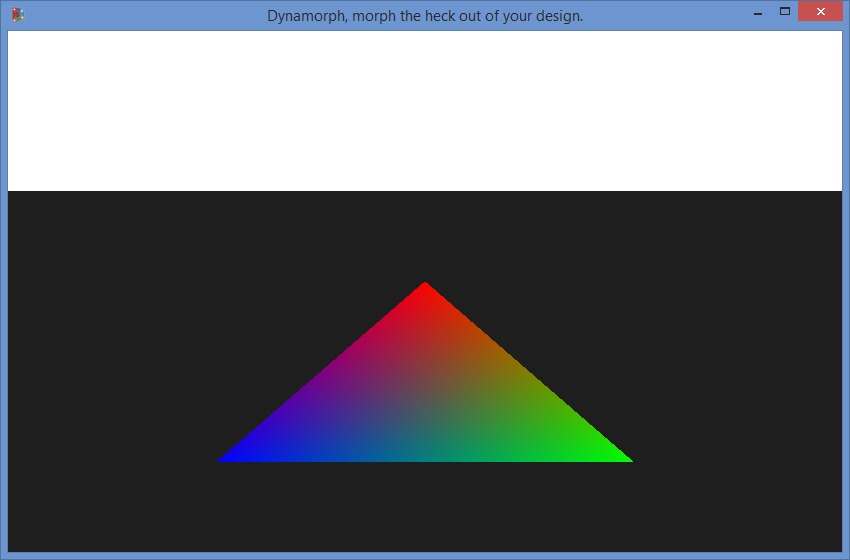
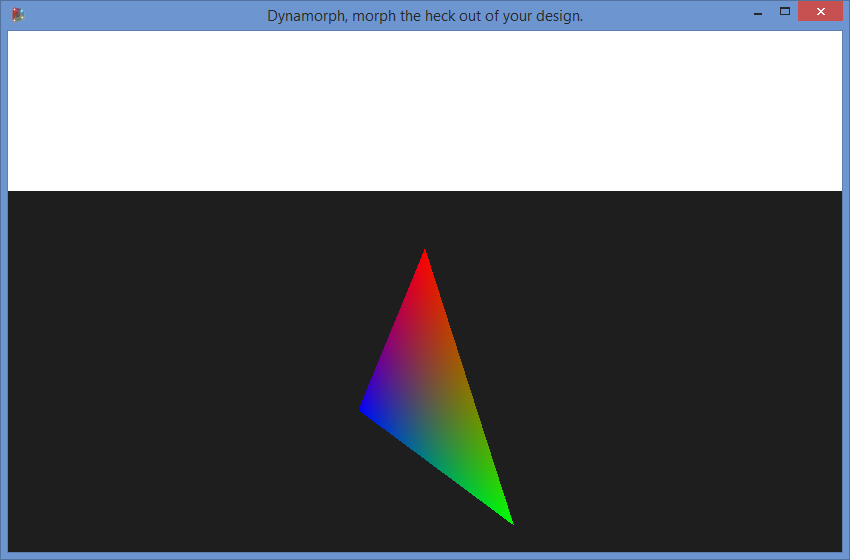
Added "CameraConfiguration" and a way to configure camera

Changed region(s): [[0.2447, 0.4554, 0.7341, 0.9411]]

diff --git a/src/Extensions/Dynamorph/Dynamorph.Cpp/Interfaces.h b/src/Extensions/Dynamorph/Dynamorph.Cpp/Interfaces.h
@@ -32,6 +32,54 @@ namespace Dynamorph
         virtual void MouseReleasedCore(int screenX, int screenY) = 0;
     };
 
+    struct CameraConfiguration
+    {
+        CameraConfiguration()
+        {
+            memset(this, 0, sizeof(CameraConfiguration));
+            eye[0] = eye[1] = eye[2] = 10.0f;
+            center[0] = center[1] = center[2] = 0.0f;
+            up[1] = 1.0f; // Default up-vector is Y-axis
+
+            fieldOfView = 45.0f;
+            aspectRatio = 3.0f / 2.0f;
+            nearClippingPlane = 1.0f;
+            farClippingPlane = 1000.0f;
+        }
+
+        void SetEyePoint(float x, float y, float z)
+        {
+            eye[0] = x;
+            eye[1] = y;
+            eye[2] = z;
+        }
+
+        void SetCenterPoint(float x, float y, float z)
+        {
+            center[0] = x;
+            center[1] = y;
+            center[2] = z;
+        }
+
+        void SetUpVector(float x, float y, float z)
+        {
+            up[0] = x;
+            up[1] = y;
+            up[2] = z;
+        }
+
+        // View matrix.
+        float eye[3];
+        float center[3];
+        float up[3];
+
+        // Projection matrix.
+        float fieldOfView;
+        float aspectRatio;
+        float nearClippingPlane;
+        float farClippingPlane;
+    };
+
     class ICamera
     {
     public:
@@ -39,9 +87,9 @@ namespace Dynamorph
         {
         }
 
-        void SetView(const float* pEye, const float* pCenter, const float* pUp)
+        void Configure(const CameraConfiguration* pConfiguration)
         {
-            this->SetViewCore(pEye, pCenter, pUp);
+            this->ConfigureCore(pConfiguration);
         }
 
         ITrackBall* GetTrackBall() const
@@ -50,7 +98,7 @@ namespace Dynamorph
         }
 
     protected:
-        virtual void SetViewCore(const float* pEye, const float* pCenter, const float* pUp) = 0;
+        virtual void ConfigureCore(const CameraConfiguration* pConfiguration) = 0;
         virtual ITrackBall* GetTrackBallCore() const = 0;
     };
 

diff --git a/src/Extensions/Dynamorph/Dynamorph.Cpp/OpenGL Files/Camera.cpp b/src/Extensions/Dynamorph/Dynamorph.Cpp/OpenGL Files/Camera.cpp
@@ -51,13 +51,30 @@ GraphicsContext* Camera::GetGraphicsContext(void) const
     return this->mpGraphicsContext;
 }
 
-void Camera::SetViewCore(const float* pEye, const float* pCenter, const float* pUp)
+void Camera::ConfigureCore(const CameraConfiguration* pConfiguration)
 {
-    glm::vec3 eye(pEye[0], pEye[1], pEye[2]);
-    glm::vec3 center(pCenter[0], pCenter[1], pCenter[2]);
-    glm::vec3 up(pUp[0], pUp[1], pUp[2]);
+    glm::vec3 eye(
+        pConfiguration->eye[0],
+        pConfiguration->eye[1],
+        pConfiguration->eye[2]);
+
+    glm::vec3 center(
+        pConfiguration->center[0],
+        pConfiguration->center[1],
+        pConfiguration->center[2]);
+
+    glm::vec3 up(
+        pConfiguration->up[0],
+        pConfiguration->up[1],
+        pConfiguration->up[2]);
 
     this->mViewMatrix = glm::lookAt(eye, center, up);
+
+    this->mProjMatrix = glm::perspective(
+        pConfiguration->fieldOfView,
+        pConfiguration->aspectRatio,
+        pConfiguration->nearClippingPlane,
+        pConfiguration->farClippingPlane);
 }
 
 Dynamorph::ITrackBall* Camera::GetTrackBallCore() const

diff --git a/src/Extensions/Dynamorph/Dynamorph.Cpp/Dynamorph.cpp b/src/Extensions/Dynamorph/Dynamorph.Cpp/Dynamorph.cpp
@@ -135,6 +135,16 @@ void Visualizer::Initialize(HWND hWndParent, int width, int height)
     mpShaderProgram->BindTransformMatrix(TransMatrix::View, "view");
     mpShaderProgram->BindTransformMatrix(TransMatrix::Projection, "proj");
 
+    auto pCamera = mpGraphicsContext->GetDefaultCamera();
+    {
+        CameraConfiguration camConfig;
+        camConfig.SetEyePoint(1.0f, 1.0f, 1.0f);
+        camConfig.SetCenterPoint(0.0f, 0.0f, 0.0f);
+        camConfig.SetUpVector(0.0f, 1.0f, 0.0f);
+        camConfig.aspectRatio = ((float) width) / height;
+        pCamera->Configure(&camConfig);
+    }
+
     std::vector<float> positions;
     float data[] = { 0.0f, 0.5f, 0.0f, 0.5, -0.5, 0.0f, -0.5f, -0.5f, 0.0f };
     for (int index = 0; index < _countof(data); ++index)

diff --git a/src/Extensions/Dynamorph/Dynamorph.Cpp/OpenGL Files/OpenInterfaces.h b/src/Extensions/Dynamorph/Dynamorph.Cpp/OpenGL Files/OpenInterfaces.h
@@ -160,7 +160,7 @@ namespace Dynamorph { namespace OpenGL {
         GraphicsContext* GetGraphicsContext(void) const;
 
     protected:
-        virtual void SetViewCore(const float* pEye, const float* pTarget, const float* pUp);
+        virtual void ConfigureCore(const CameraConfiguration* pConfiguration);
         virtual Dynamorph::ITrackBall* GetTrackBallCore() const;
 
     private:

diff --git a/src/Extensions/Dynamorph/README.md b/src/Extensions/Dynamorph/README.md
@@ -20,6 +20,7 @@ Dynamorph, morph the heck out of your design.
 - [ ] Add slider to work with synthesized graph
 - [ ] Enable slider to work with C++ Visualizer
 - [ ] Implement Track Ball class for navigation
+- [ ] Update aspect ratio when window is sized
 
 ## Screenshot Of The Day ##
 This is the latest screenshot of Dynamorph. It will be updated as and when there is any visible change to Dynamorph to reflect the latest development.
